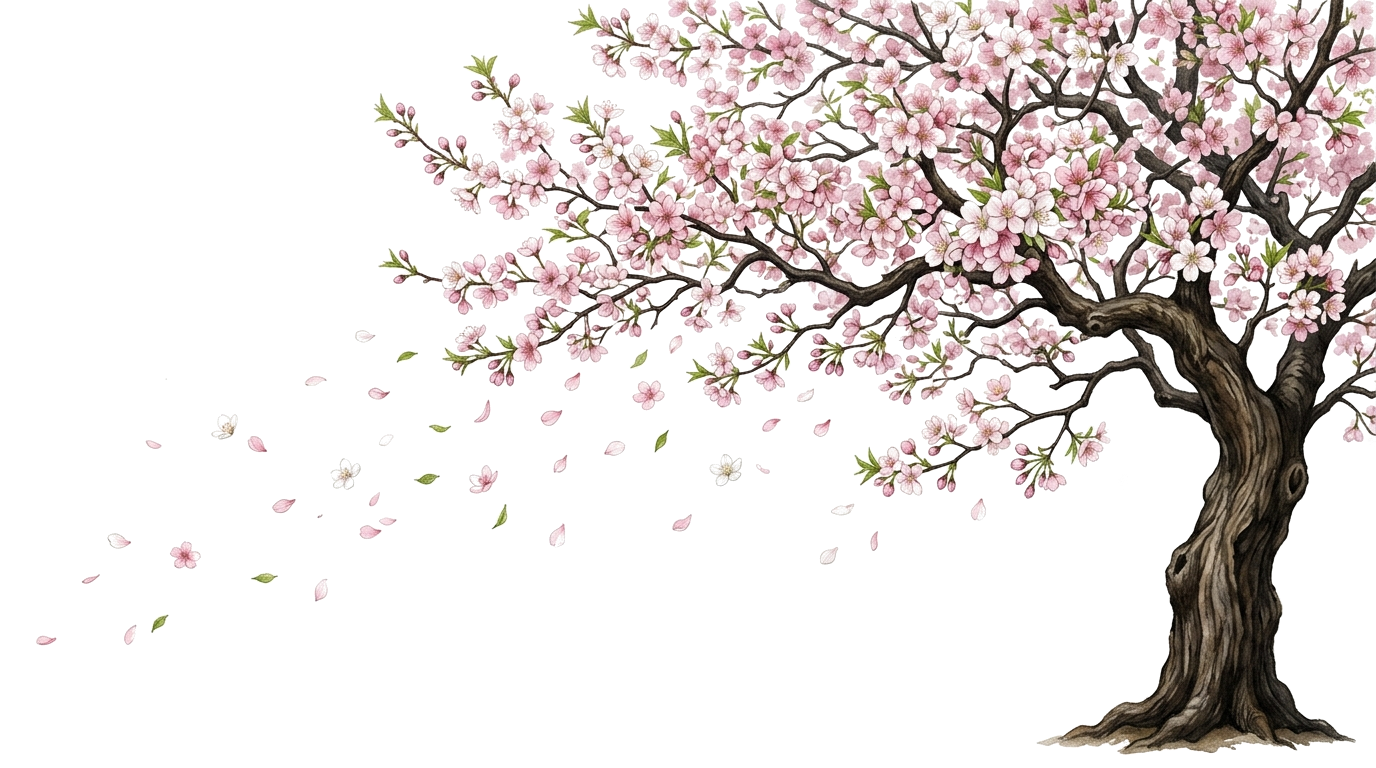
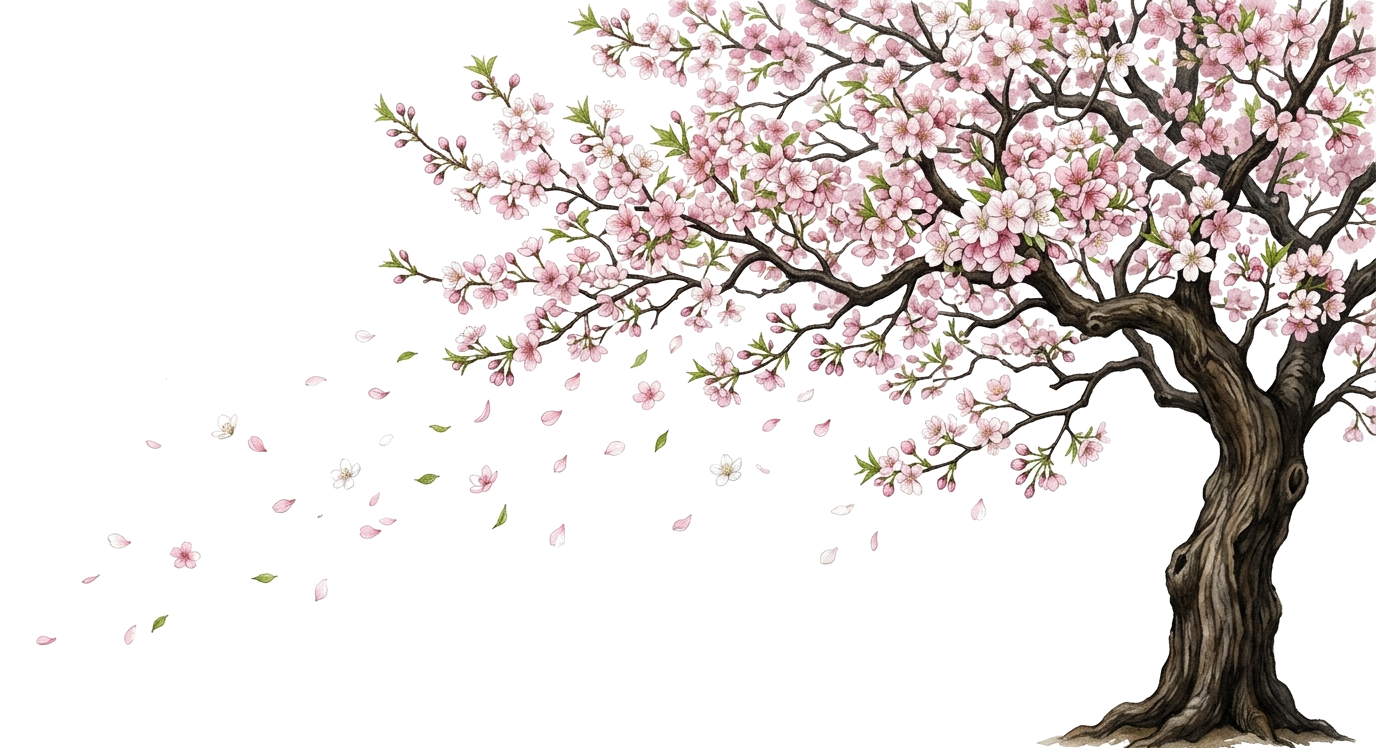
style(hero): enlarge cherry blossom tree to extend from base to top of hero page

diff --git a/portfolio/style.css b/portfolio/style.css
@@ -437,29 +437,26 @@ body:has(a:hover, button:hover, .proj-card-editorial:hover) #cursor-ring {
 
 .hero-tree-wrap {
   position: absolute;
-  top: 0;
-  right: 0;
+  inset: 0;
   width: 100%;
   height: 100%;
   pointer-events: none;
   z-index: 2;
   overflow: hidden;
-  display: flex;
-  justify-content: flex-end;
-  align-items: stretch;
 }
 
 .hero-tree-img {
   position: absolute;
-  top: 0;
+  bottom: 0;
   right: 0;
-  height: 100%;
+  height: 102%;
+  min-height: 100%;
   width: auto;
-  max-width: 65vw;
+  max-width: none;
   object-fit: contain;
-  object-position: right top;
+  object-position: right bottom;
   filter: drop-shadow(0 14px 32px rgba(25, 45, 70, 0.12));
-  transform-origin: 90% 90%;
+  transform-origin: 85% 98%;
   animation: heroTreeBreeze 9s ease-in-out infinite alternate;
   pointer-events: none;
 }
@@ -478,8 +475,11 @@ body:has(a:hover, button:hover, .proj-card-editorial:hover) #cursor-ring {
 
 @media (max-width: 768px) {
   .hero-tree-img {
-    max-width: 85vw;
-    opacity: 0.8;
+    height: 90%;
+    min-height: 90%;
+    bottom: 0;
+    right: -15vw;
+    opacity: 0.75;
   }
 }
 
